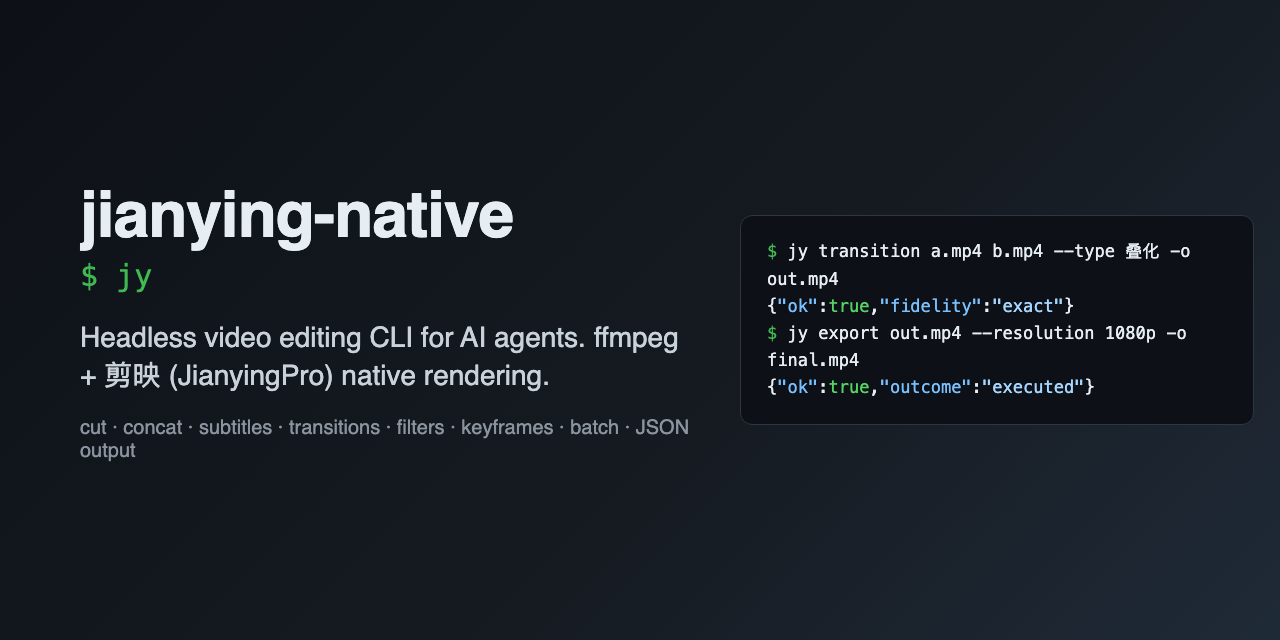
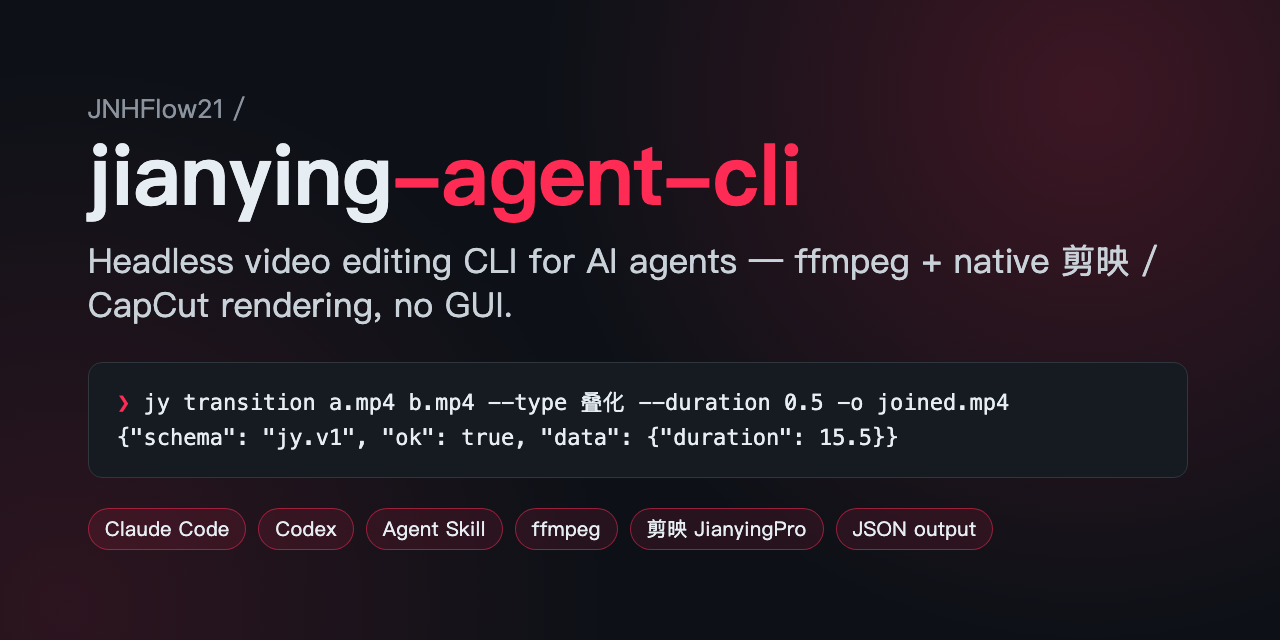
docs: rename repository for discoverability
The repo is now jianying-agent-cli; the installed command is unchanged.

diff --git a/README.md b/README.md
@@ -1,17 +1,17 @@
 <div align="center">
 
-# jianying-native (`jy`)
+# jianying-agent-cli (`jy`)
 
 **Headless video editing CLI for AI agents — ffmpeg plus optional native rendering through your own 剪映专业版 (JianyingPro / CapCut China desktop).**
 
 Cut, concat, subtitles, titles, transitions, filters, keying, audio, keyframes, batch export — every call prints exactly one JSON object, so Claude Code, Codex or any script can drive it without a GUI.
 
-[![test](https://github.com/JNHFlow21/jianying-native/actions/workflows/test.yml/badge.svg)](https://github.com/JNHFlow21/jianying-native/actions/workflows/test.yml)
+[![test](https://github.com/JNHFlow21/jianying-agent-cli/actions/workflows/test.yml/badge.svg)](https://github.com/JNHFlow21/jianying-agent-cli/actions/workflows/test.yml)
 [![License: MIT](https://img.shields.io/badge/license-MIT-D97757.svg)](LICENSE)
 ![Python 3.9+](https://img.shields.io/badge/python-3.9%2B-6A9BCC.svg)
 ![macOS](https://img.shields.io/badge/platform-macOS-lightgrey.svg)
 ![No pip deps](https://img.shields.io/badge/deps-ffmpeg%20only-2ea44f.svg)
-[![GitHub stars](https://img.shields.io/github/stars/JNHFlow21/jianying-native?style=social)](https://github.com/JNHFlow21/jianying-native/stargazers)
+[![GitHub stars](https://img.shields.io/github/stars/JNHFlow21/jianying-agent-cli?style=social)](https://github.com/JNHFlow21/jianying-agent-cli/stargazers)
 
 English · [简体中文](README.zh-CN.md)
 
@@ -32,7 +32,7 @@ English · [简体中文](README.zh-CN.md)
 ## Install
 
 ```sh
-git clone https://github.com/JNHFlow21/jianying-native.git && cd jianying-native && python3 install_global.py
+git clone https://github.com/JNHFlow21/jianying-agent-cli.git && cd jianying-agent-cli && python3 install_global.py
 ```
 
 Needs Python 3.9+ and ffmpeg. `brew install ffmpeg-full` is recommended (libass for subtitles/text, x264/x265, zimg); plain `ffmpeg` works and `jy` degrades per capability instead of pretending. The installer symlinks `jy` into `~/.local/bin` (an existing non-`jy` file there is moved to `jy.bak-<time>`, never deleted). Then:
@@ -69,7 +69,7 @@ The repo ships an [Agent Skill](skills/jianying-native/SKILL.md) (rules, the `jy
 ```sh
 python3 install_global.py --with-skill     # copies the skill to ~/.claude/skills and ~/.agents/skills (backs up existing)
 # or, with the skills CLI:
-npx skills add JNHFlow21/jianying-native
+npx skills add JNHFlow21/jianying-agent-cli
 # or by hand:
 cp -r skills/jianying-native ~/.claude/skills/     # Claude Code
 cp -r skills/jianying-native ~/.agents/skills/     # Codex and other Agent Skills hosts
@@ -172,6 +172,6 @@ This is an unofficial, independent tool. It is not affiliated with, endorsed by,
 
 If `jy` saved you an afternoon of ffmpeg flags, a ⭐ helps other people (and their agents) find it.
 
-[![Star History Chart](https://api.star-history.com/svg?repos=JNHFlow21/jianying-native&type=Date)](https://star-history.com/#JNHFlow21/jianying-native&Date)
+[![Star History Chart](https://api.star-history.com/svg?repos=JNHFlow21/jianying-agent-cli&type=Date)](https://star-history.com/#JNHFlow21/jianying-agent-cli&Date)
 
 [MIT](LICENSE)

diff --git a/USAGE.md b/USAGE.md
@@ -14,7 +14,7 @@ jy doctor                      # 先跑这个：两套 ffmpeg 能力 + 剪映状
 ## 1. 安装
 
 ```bash
-git clone https://github.com/JNHFlow21/jianying-native.git && cd jianying-native
+git clone https://github.com/JNHFlow21/jianying-agent-cli.git && cd jianying-agent-cli
 ./install_global.py            # 软链到 ~/.local/bin/jy（已存在的非 jy 文件会先备份）
 ./install_global.py --with-skill   # 同时把 agent skill 装进 ~/.claude/skills 与 ~/.agents/skills
 ./install_global.py --dry-run   # 只看会做什么

diff --git a/docs/REFERENCE.zh-CN.md b/docs/REFERENCE.zh-CN.md
@@ -47,7 +47,7 @@ README/`--help`/`data.note` 里写清楚。
 ## 快速开始
 
 ```bash
-cd jianying-native
+cd jianying-agent-cli
 ./bin/jy doctor                                   # 看两个 ffmpeg 构建、版本、滤镜/编码器矩阵 + 特效能力
 
 # 3 个最常用示例
@@ -703,7 +703,7 @@ jy clean --all --apply                   # 以上全部
 ## 测试
 
 ```bash
-cd jianying-native
+cd jianying-agent-cli
 ./tests/smoke.sh
 ```
 

diff --git a/SECURITY.md b/SECURITY.md
@@ -7,5 +7,5 @@ the bridge context.
 
 If you find a way `jy` leaks a credential, writes outside the paths it documents, or modifies a
 剪映 draft it did not create without `--apply`, please report it privately via
-[GitHub Security Advisories](https://github.com/JNHFlow21/jianying-native/security/advisories/new)
+[GitHub Security Advisories](https://github.com/JNHFlow21/jianying-agent-cli/security/advisories/new)
 rather than a public issue.
